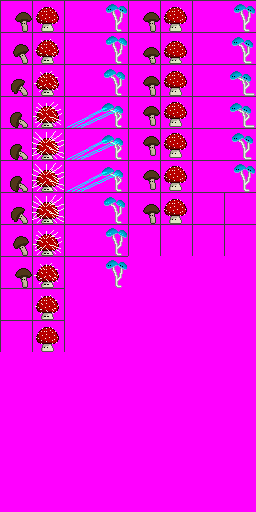
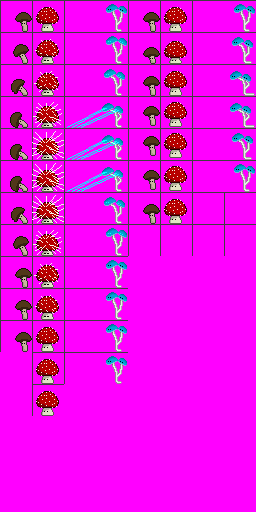
tweaked sizes

Changed region(s): [[0.125, 0.6875, 0.2812, 0.8125], [0.4062, 0.5625, 0.5, 0.75], [0.0625, 0.5625, 0.125, 0.6875]]

diff --git a/src/main/java/ld55/Guy.java b/src/main/java/ld55/Guy.java
@@ -23,12 +23,14 @@ public abstract class Guy extends GameObject implements IHandler, IDamageable {
     private final double moveSpeed;
     private final boolean isGoodGuy;
 
+    private double summonTimer = SummonEffect.DURATION;
+
     private double health;
 
-    public Guy(double width, double height, double xOff, double attackRange, double health, double damage, double moveSpeed, double attackSpeed, AAppearance walkingAppearance, AAppearance attackingAppearance, boolean isGoodGuy) {
+    public Guy(double width, double height, double xOff, double attackRange, double health, double damage, double moveSpeed, double attackSpeed, AAppearance walkingAppearance, AAppearance attackingAppearance, AAppearance spawnAppearance, boolean isGoodGuy) {
         this.walkingAppearance = walkingAppearance;
         this.attackingAppearance = attackingAppearance;
-        this.attackRange = attackRange;
+        this.attackRange = 0.0; // TODO attackRange;
         this.damage = damage;
         this.moveSpeed = moveSpeed;
         this.health = health;
@@ -37,7 +39,7 @@ public abstract class Guy extends GameObject implements IHandler, IDamageable {
         attackSpeedTimer = InterpolationFactory.createInterpolatedDouble("guy attack " + getId(), 0.0, 1.0, attackSpeed);
         attackSpeedTimer.setRunning(false);
 
-        attachAppearance(walkingAppearance);
+        attachAppearance(spawnAppearance);
 
         attachTag(isGoodGuy ? GOODIE_TAG : BADDIE_TAG);
 
@@ -54,28 +56,32 @@ public abstract class Guy extends GameObject implements IHandler, IDamageable {
     @Override
     public void handle(AEvent pEvt, GameObject pSelf) {
         if (pEvt.getType() == EventType.UPDATE) {
-            IDamageable closestTarget = getClosestTarget();
-            boolean attacking = shouldAttack((GameObject)closestTarget);
+            summonTimer -= Time.getDelta();
 
-            if (attacking) {
-                attachAppearance(attackingAppearance);
+            if (summonTimer <= 0.0) {
+                IDamageable closestTarget = getClosestTarget();
+                boolean attacking = shouldAttack((GameObject) closestTarget);
 
-                if (attackSpeedTimer.isFinished()) {
-                    if (closestTarget != null) {
-                        closestTarget.inflictDamage(damage);
+                if (attacking) {
+                    attachAppearance(attackingAppearance);
+
+                    if (attackSpeedTimer.isFinished()) {
+                        if (closestTarget != null) {
+                            closestTarget.inflictDamage(damage);
+                        }
+
+                        attackSpeedTimer.reset();
                     }
 
-                    attackSpeedTimer.reset();
+                    attackSpeedTimer.setRunning(true);
+                } else {
+                    attachAppearance(walkingAppearance);
+                    attackSpeedTimer.setRunning(false);
+
+                    double direction = isGoodGuy ? -1 : 1;
+                    Transform trans = getTransform().get();
+                    trans.setX(trans.getX() + Time.getDelta() * moveSpeed * direction);
                 }
-
-                attackSpeedTimer.setRunning(true);
-            } else {
-                attachAppearance(walkingAppearance);
-                attackSpeedTimer.setRunning(false);
-
-                double direction = isGoodGuy ? -1 : 1;
-                Transform trans = getTransform().get();
-                trans.setX(trans.getX() + Time.getDelta() * moveSpeed * direction);
             }
         }
     }
@@ -113,20 +119,36 @@ public abstract class Guy extends GameObject implements IHandler, IDamageable {
         Transform targetTrans = target.getTransform().get();
         Transform myTrans = getTransform().get();
 
+        final double widthFactor = getWidthFactor();
         double myEdge;
         double targetEdge;
         if (isGoodGuy) {
-            targetEdge = targetTrans.getX() + targetTrans.getScaleX() / 2.0;
-            myEdge = myTrans.getX() - myTrans.getScaleX() / 2.0;
+            targetEdge = targetTrans.getX() + targetTrans.getScaleX() * widthFactor / 2.0;
+            myEdge = myTrans.getX() - myTrans.getScaleX() * widthFactor / 2.0;
         } else {
-            targetEdge = targetTrans.getX() - targetTrans.getScaleX() / 2.0;
-            myEdge = myTrans.getX() + myTrans.getScaleX() / 2.0;
+            targetEdge = targetTrans.getX() - targetTrans.getScaleX() * widthFactor / 2.0;
+            myEdge = myTrans.getX() + myTrans.getScaleX() * widthFactor / 2.0;
         }
 
         double dist = Math.abs(myEdge - targetEdge);
 
         final double places = 10000d;
         return Math.round(dist * places) / places;
+    }
+
+    private double getWidthFactor() {
+        // This is horrible code
+        if (this instanceof BasicGuy) {
+            return 0.6;
+        } else if (this instanceof TankGuy) {
+            return 0.6;
+        } else if (this instanceof OpGuy) {
+            return 0.6;
+        } else if (this instanceof BasicBaddie) {
+            return 0.6;
+        } else {
+            throw new RuntimeException("UNRECOGNIZED GUY: " + this.getClass().getName());
+        }
     }
 
     @Override

diff --git a/src/main/java/ld55/Base.java b/src/main/java/ld55/Base.java
@@ -6,7 +6,7 @@ import java.awt.*;
 
 public class Base extends GameObject implements IDamageable {
 
-    private static final boolean ENABLE_GAME_OVER = true;
+    private static final boolean ENABLE_GAME_OVER = false; // TODO
     private static final SpriteSheet BASES_SS = new SpriteSheet("bases.png", 8, 8);
 
     public static final String BAD_BASE_TAG = "bad-base";
@@ -15,13 +15,13 @@ public class Base extends GameObject implements IDamageable {
     public static final double X_POS_CENTER = 0.6;
     public static final double Y_POS_GROUND = 0.32;
 
-    private static final double WIDTH = 0.17;
+    private static final double WIDTH = 0.28;
     private static final double HEIGHT = WIDTH;
     private static final double FULL_HEALTH = 500.0;
 
-    private static final double HEALTH_BAR_SPACING = 0.05;
-    private static final double HEALTH_BAR_WIDTH = 1.1;
-    private static final double HEALTH_BAR_HEIGHT = HEALTH_BAR_WIDTH * 0.15;
+    private static final double HEALTH_BAR_SPACING = -0.1;
+    private static final double HEALTH_BAR_WIDTH = 0.9;
+    private static final double HEALTH_BAR_HEIGHT = HEALTH_BAR_WIDTH * 0.12;
 
     private final boolean isGoodBase;
 
@@ -106,9 +106,11 @@ public class Base extends GameObject implements IDamageable {
     }
 
     private void gameOver(boolean isWin) {
-        Scene gameOverScene = new Scene(new FreeCamera(), Color.BLACK);
-        gameOverScene.add(new GameOverCard(isWin));
-        Game.setCurrentScene(gameOverScene);
+        if (ENABLE_GAME_OVER) {
+            Scene gameOverScene = new Scene(new FreeCamera(), Color.BLACK);
+            gameOverScene.add(new GameOverCard(isWin));
+            Game.setCurrentScene(gameOverScene);
+        }
     }
 
 }

diff --git a/src/main/java/ld55/TankGuy.java b/src/main/java/ld55/TankGuy.java
@@ -2,14 +2,12 @@ package ld55;
 
 import ludumEngine2D.AAppearance;
 import ludumEngine2D.AnimationAppearance;
-import ludumEngine2D.ColorAppearance;
-
-import java.awt.*;
+import ludumEngine2D.TextureAppearance;
 
 public class TankGuy extends Guy {
 
     public TankGuy() {
-        super(0.15, 0.15, 0.05, 0.2, 200, 10, 0.08, 3.0, createWalkingAppearance(), createAttackingAppearance(), true);
+        super(0.125, 0.125, 0.0125, 0.2, 200, 10, 0.08, 3.0, createWalkingAppearance(), createAttackingAppearance(), createSpawnAppearance(), true);
     }
 
     private static AAppearance createWalkingAppearance() {
@@ -20,7 +18,12 @@ public class TankGuy extends Guy {
     private static AAppearance createAttackingAppearance() {
         return new AnimationAppearance(ANIMATION_SPEED, MUSHROOM_SS.getTexture(0, 1, 1, 1),MUSHROOM_SS.getTexture(1, 1, 1, 1),MUSHROOM_SS.getTexture(2, 1, 1, 1),
                 MUSHROOM_SS.getTexture(3, 1, 1, 1),MUSHROOM_SS.getTexture(4, 1, 1, 1),MUSHROOM_SS.getTexture(5, 1, 1, 1),MUSHROOM_SS.getTexture(6, 1, 1, 1),
-                MUSHROOM_SS.getTexture(7, 1, 1, 1),MUSHROOM_SS.getTexture(8, 1, 1, 1),MUSHROOM_SS.getTexture(9, 1, 1, 1),MUSHROOM_SS.getTexture(10, 1, 1, 1));
+                MUSHROOM_SS.getTexture(7, 1, 1, 1),MUSHROOM_SS.getTexture(8, 1, 1, 1),MUSHROOM_SS.getTexture(9, 1, 1, 1),MUSHROOM_SS.getTexture(10, 1, 1, 1),
+                MUSHROOM_SS.getTexture(11, 1, 1, 1),MUSHROOM_SS.getTexture(12, 1, 1, 1));
+    }
+
+    private static AAppearance createSpawnAppearance() {
+        return new TextureAppearance(MUSHROOM_SS.getTexture(0, 5, 1, 1));
     }
 
 }

diff --git a/src/main/java/ld55/BasicBaddie.java b/src/main/java/ld55/BasicBaddie.java
@@ -1,15 +1,13 @@
 package ld55;
 
-import ludumEngine2D.AAppearance;
-import ludumEngine2D.AnimationAppearance;
-import ludumEngine2D.SpriteSheet;
+import ludumEngine2D.*;
 
 public class BasicBaddie extends Guy {
 
     private static final SpriteSheet BADDIE_SS = new SpriteSheet("snail.png", 16, 8);
 
     public BasicBaddie() {
-        super(0.1, 0.1, -0.075, 0.1, 100, 20, 0.1, 2.0, createWalkingAppearance(), createAttackingAppearance(), false);
+        super(0.1, 0.1, 0.15, 0.1, 100, 20, 0.1, 2.0, createWalkingAppearance(), createAttackingAppearance(), createSpawnAppearance(), false);
     }
 
     private static AAppearance createWalkingAppearance() {
@@ -21,7 +19,12 @@ public class BasicBaddie extends Guy {
     private static AAppearance createAttackingAppearance() {
         return new AnimationAppearance(ANIMATION_SPEED, BADDIE_SS.getTexture(0, 0, 1, 1), BADDIE_SS.getTexture(1, 0, 1, 1), BADDIE_SS.getTexture(2, 0, 1, 1),
                 BADDIE_SS.getTexture(3, 0, 1, 1), BADDIE_SS.getTexture(4, 0, 1, 1), BADDIE_SS.getTexture(5, 0, 1, 1),
-                BADDIE_SS.getTexture(6, 0, 1, 1), BADDIE_SS.getTexture(7, 0, 1, 1), BADDIE_SS.getTexture(8, 0, 1, 1));
+                BADDIE_SS.getTexture(6, 0, 1, 1), BADDIE_SS.getTexture(7, 0, 1, 1), BADDIE_SS.getTexture(8, 0, 1, 1),
+                BADDIE_SS.getTexture(9, 0, 1, 1),BADDIE_SS.getTexture(10, 0, 1, 1));
+    }
+
+    private static AAppearance createSpawnAppearance() {
+        return new TextureAppearance(BADDIE_SS.getTexture(0, 1, 1, 1));
     }
 
 }

diff --git a/src/main/java/ld55/OpGuy.java b/src/main/java/ld55/OpGuy.java
@@ -2,11 +2,12 @@ package ld55;
 
 import ludumEngine2D.AAppearance;
 import ludumEngine2D.AnimationAppearance;
+import ludumEngine2D.TextureAppearance;
 
 public class OpGuy extends Guy {
 
     public OpGuy() {
-        super(0.4, 0.2, 0.0, 0.3, 150, 40, 0.06, 4.0, createWalkingAppearance(), createAttackingAppearance(), true);
+        super(0.3, 0.15, -0.08, 0.3, 150, 40, 0.06, 4.0, createWalkingAppearance(), createAttackingAppearance(), createSpawnAppearance(), true);
     }
 
     private static AAppearance createWalkingAppearance() {
@@ -17,7 +18,12 @@ public class OpGuy extends Guy {
     private static AAppearance createAttackingAppearance() {
         return new AnimationAppearance(ANIMATION_SPEED, MUSHROOM_SS.getTexture(0, 1, 2, 1),MUSHROOM_SS.getTexture(1, 1, 2, 1),MUSHROOM_SS.getTexture(2, 1, 2, 1),
                 MUSHROOM_SS.getTexture(3, 1, 2, 1),MUSHROOM_SS.getTexture(4, 1, 2, 1),MUSHROOM_SS.getTexture(5, 1, 2, 1),
-                MUSHROOM_SS.getTexture(6, 1, 2, 1),MUSHROOM_SS.getTexture(7, 1, 2, 1),MUSHROOM_SS.getTexture(8, 1, 2, 1));
+                MUSHROOM_SS.getTexture(6, 1, 2, 1),MUSHROOM_SS.getTexture(7, 1, 2, 1),MUSHROOM_SS.getTexture(8, 1, 2, 1),
+                MUSHROOM_SS.getTexture(9, 1, 2, 1),MUSHROOM_SS.getTexture(10, 1, 2, 1),MUSHROOM_SS.getTexture(11, 1, 2, 1));
+    }
+
+    private static AAppearance createSpawnAppearance() {
+        return new TextureAppearance(MUSHROOM_SS.getTexture(0, 3, 2, 1));
     }
 
 }

diff --git a/src/main/java/ld55/BasicGuy.java b/src/main/java/ld55/BasicGuy.java
@@ -2,11 +2,12 @@ package ld55;
 
 import ludumEngine2D.AAppearance;
 import ludumEngine2D.AnimationAppearance;
+import ludumEngine2D.TextureAppearance;
 
 public class BasicGuy extends Guy {
 
     public BasicGuy() {
-        super(0.1, 0.1, 0.0, 0.1, 100, 20, 0.1, 2.0, createWalkingAppearance(), createAttackingAppearance(), true);
+        super(0.1, 0.1, -0.005, 0.1, 100, 20, 0.1, 2.0, createWalkingAppearance(), createAttackingAppearance(), createSpawnAppearance(), true);
     }
 
     private static AAppearance createWalkingAppearance() {
@@ -17,7 +18,12 @@ public class BasicGuy extends Guy {
     private static AAppearance createAttackingAppearance() {
         return new AnimationAppearance(ANIMATION_SPEED, MUSHROOM_SS.getTexture(0, 0, 1, 1),MUSHROOM_SS.getTexture(1, 0, 1, 1),MUSHROOM_SS.getTexture(2, 0, 1, 1),
                 MUSHROOM_SS.getTexture(3, 0, 1, 1),MUSHROOM_SS.getTexture(4, 0, 1, 1),MUSHROOM_SS.getTexture(5, 0, 1, 1),
-                MUSHROOM_SS.getTexture(6, 0, 1, 1),MUSHROOM_SS.getTexture(7, 0, 1, 1),MUSHROOM_SS.getTexture(8, 0, 1, 1));
+                MUSHROOM_SS.getTexture(6, 0, 1, 1),MUSHROOM_SS.getTexture(7, 0, 1, 1),MUSHROOM_SS.getTexture(8, 0, 1, 1),
+                MUSHROOM_SS.getTexture(9, 0, 1, 1),MUSHROOM_SS.getTexture(10, 0, 1, 1));
+    }
+
+    private static AAppearance createSpawnAppearance() {
+        return new TextureAppearance(MUSHROOM_SS.getTexture(0, 4, 1, 1));
     }
 
 }

diff --git a/src/main/java/ld55/CharacterSummoner.java b/src/main/java/ld55/CharacterSummoner.java
@@ -6,8 +6,8 @@ import java.util.function.Consumer;
 
 public abstract class CharacterSummoner extends GameObject implements IHandler {
 
-    private static double IMAGE_SIZE = 1.0 / 16;
-    private static double SPACING = 1.0 / 32;
+    private static double IMAGE_SIZE = 1.0 / 20;
+    private static double SPACING = 1.0 / 64;
     private static double X_POS = Main.ASPECT_RATIO / 2.0;
     private static double Y_POS_BASE = -0.5 + SPACING + IMAGE_SIZE / 2.0;
     private static final boolean START_ON_COOLDOWN = false;
@@ -55,7 +55,7 @@ public abstract class CharacterSummoner extends GameObject implements IHandler {
             double baseX = X_POS - IMAGE_SIZE;
             double baseY = Y_POS_BASE + yIndex * (SPACING + IMAGE_SIZE);
             double height = Math.max(IMAGE_SIZE * (this.arrows.currCooldownTimer / this.arrows.cooldownTimer), 0.0);
-            Transform cooldownTrans = new Transform(baseX, baseY + (IMAGE_SIZE - height - 1.0 / Main.HEIGHT) / 2.0, IMAGE_SIZE, height);
+            Transform cooldownTrans = new Transform(baseX, baseY + (IMAGE_SIZE - height - 1.0 / Main.HEIGHT) / 2.0, IMAGE_SIZE, height); // TODO: fix visual glitch
             cooldownOverlay.attachTransform(cooldownTrans);
         }
     }

diff --git a/src/main/java/ld55/SummonPoint.java b/src/main/java/ld55/SummonPoint.java
@@ -20,10 +20,10 @@ public class SummonPoint extends GameObject {
             xOff = 0.02;
         } else if (summ.equals(TankSummoner.class)) {
             guy = new TankGuy();
-            xOff = 0.02;
+            xOff = 0.0;
         } else if (summ.equals(OpSummoner.class)) {
             guy = new OpGuy();
-            xOff = 0.05;
+            xOff = 0.1;
         } else {
             throw new RuntimeException("ADD ANOTHER SUMMONER OPTION " + summ.getName());
         }
@@ -32,8 +32,9 @@ public class SummonPoint extends GameObject {
     }
 
     public static void addSummonEffect(Guy guy, double xOff) {
+        double widthFactor = guy instanceof OpGuy ? 0.5 : 1.0;
         Transform guyTrans = guy.getTransform().get();
-        new SummonEffect(guyTrans.getX() + xOff, guyTrans.getY(), guyTrans.getScaleX(), guyTrans.getScaleY());
+        new SummonEffect(guyTrans.getX() + xOff, guyTrans.getY(), guyTrans.getScaleX() * widthFactor, guyTrans.getScaleY());
     }
 
 }

diff --git a/src/main/java/ld55/BaddieSpawner.java b/src/main/java/ld55/BaddieSpawner.java
@@ -6,8 +6,8 @@ public class BaddieSpawner extends GameObject implements IHandler {
 
     public static final String TAG = "baddie-spawner";
 
-    private static final double MIN_DURATION = 3.0;
-    private static final double MAX_DURATION = 6.0;
+    private static final double MIN_DURATION = 3.0; // TODO 3.0
+    private static final double MAX_DURATION = MIN_DURATION + 3.0;
 
     private InterpolatedDouble baddieSpawnTimer;
 
@@ -31,7 +31,7 @@ public class BaddieSpawner extends GameObject implements IHandler {
                 }
 
                 Guy guy = new BasicBaddie();
-                SummonPoint.addSummonEffect(guy, -0.02);
+                SummonPoint.addSummonEffect(guy, 0.0);
             }
 
             baddieSpawnTimer.setRunning(true);

diff --git a/src/main/java/ld55/ArrowManager.java b/src/main/java/ld55/ArrowManager.java
@@ -7,6 +7,8 @@ import java.util.function.Consumer;
 
 public class ArrowManager {
 
+    private static final double DEBUG_COOLDOWN_FACTOR = 1.0; // TODO: set to 1.0
+
     public enum MatchState {
         PARTIAL_MATCH,
         FULL_MATCH,
@@ -41,7 +43,7 @@ public class ArrowManager {
         this.scene = scene;
         this.numArrows = numArrows;
         this.summoner = summoner;
-        this.cooldownTimer = cooldownTimer;
+        this.cooldownTimer = cooldownTimer * DEBUG_COOLDOWN_FACTOR;
         this.currCooldownTimer = cooldown ? this.cooldownTimer : 0.0;
 
         this.arrowVals = new int[this.numArrows];

diff --git a/src/main/java/ld55/BasicSummoner.java b/src/main/java/ld55/BasicSummoner.java
@@ -2,12 +2,11 @@ package ld55;
 
 import ludumEngine2D.*;
 
-import java.awt.*;
 import java.util.function.Consumer;
 
 public class BasicSummoner extends CharacterSummoner {
 
-    private static final AAppearance ICON = new ColorAppearance(Color.GREEN);
+    private static final AAppearance ICON = new TextureAppearance(new Texture("basicguyicon.png"));
     private static final Consumer<Scene> SPAWNER = scene -> {
         if (Debug.isEnabled()) System.out.println("SUMMONING BASIC");
 

diff --git a/src/main/java/ld55/TankSummoner.java b/src/main/java/ld55/TankSummoner.java
@@ -2,12 +2,12 @@ package ld55;
 
 import ludumEngine2D.*;
 
-import java.awt.*;
 import java.util.function.Consumer;
 
 public class TankSummoner extends CharacterSummoner {
 
-    private static final AAppearance ICON = new ColorAppearance(Color.YELLOW);
+    private static final AAppearance ICON = new TextureAppearance(new Texture("fatguyicon.png"));
+
     private static final Consumer<Scene> SPAWNER = scene -> {
         if (Debug.isEnabled()) System.out.println("SUMMONING TANK");
 
